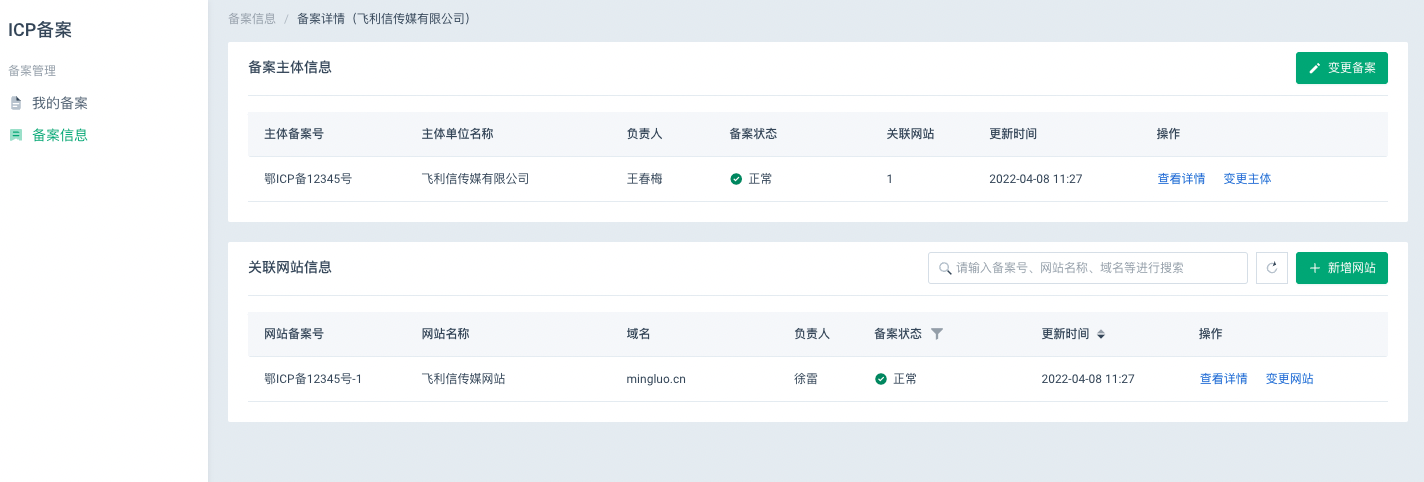
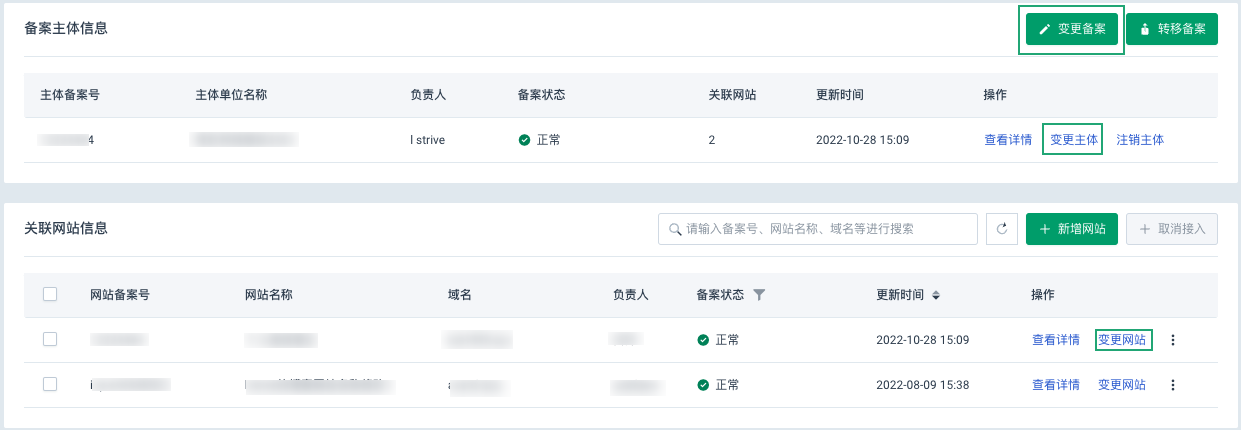
Record*: switch filing  (#1130)
* fix

* update

* update the links of index file

* fix error in ipsec- tunnel document

* update dns document

* update dns document

* modify the NOTES style and delete the DTAE field

* Modify the file name to avoid being incorrectly linked

* new version of ELK service：ELK 7.10.2-QingCloud 3.0.3

* update ELK product news

* modify product news

* bugfix of dns and ssl

* Update confirm_ssl.md

* Update confirm_ssl.md

* fix error

* Shielding the latest news

* update qke

* bad links

* fix bad links

* update index file

* fix error  link of images

* test

* update qke and vpc

* fix bug

* 解决HPC API 文档冲突导致的文件丢失

* add hpc api lost files (#892) (#893)

* fix

* update

* update the links of index file

* fix error in ipsec- tunnel document

* update dns document

* update dns document

* modify the NOTES style and delete the DTAE field

* Modify the file name to avoid being incorrectly linked

* new version of ELK service：ELK 7.10.2-QingCloud 3.0.3

* update ELK product news

* modify product news

* bugfix of dns and ssl

* Update confirm_ssl.md

* Update confirm_ssl.md

* fix error

* Shielding the latest news

* update qke

* bad links

* fix bad links

* update index file

* fix error  link of images

* test

* update qke and vpc

* fix bug

* 解决HPC API 文档冲突导致的文件丢失

* modify for jira OS-559,OS-547 (#894)

* Update main.yml

test workflows

* Update main.yml

* Update main.yml

* Update main.yml

* Update main.yml

* Update main.yml

* Update main.yml
[…]

diff --git a/content/site/record/manual/change_filing.md b/content/site/record/manual/change_filing.md
@@ -27,6 +27,8 @@ keyword: 变更备案, 备案
 请提前将变更涉及的材料彩色电子版备好，便于填写系统时同步上传审核。
 
 #### 操作步骤
+> **说明**
+>
 > 不同的 ICP 备案订单不能同时进行。如果 ICP 备案主体下有其他正在进行中的备案订单，备案页面的变更主体与变更网站按钮将变为灰色，不能进行备案变更操作。
 
 1. 登录 QingCloud 管理控制台。
@@ -53,6 +55,8 @@ keyword: 变更备案, 备案
     
     - **变更备案**/**变更网站**
 
+      > **说明**
+      >
       > 根据各省管局规则及规定，ICP备案信息中的部分信息无法变更。变更网站信息时，不能修改或新增**网站域名**和**网站首页URL**。
 
       * 网站名称：个人网站、企业网站名称的具体要求，请参见[网站名称命名规则](../../intro/limit/)。
@@ -62,7 +66,7 @@ keyword: 变更备案, 备案
       * 网站服务内容：网站内容必须与主办单位性质相符。
 
       * 应用服务类型：各服务类型参数说明如下表所示。
-
+      
         | 参数           | 说明                                                         |
         | -------------- | ------------------------------------------------------------ |
         | 网站应用服务   | 通常指官网类或电商网站选择网站应用服务等。                   |
@@ -71,12 +75,12 @@ keyword: 变更备案, 备案
         | 数据应用服务   | 通常指存储某种格式编程代码文件数据，一般用作调用接口使用等。 |
         | APP 应用服务   | 通常指手机、平台电脑上的APP等。                              |
         | 微信号应用服务 | 通常指微信订阅号、公众号、服务号等。                         |
-    
+      
        * 网站语言：指网站内容使用的主要语言。请根据实际情况进行选择，不建议多选。
          示例：网站内容的主要语言为中文，部分插件为英文，此时“网站语言”选择“中文”。
-    
-       * 前置审批类型：网站若包含[前置审批内容类型](../../prepare/pre_approval/)中的项目，请上传相关许可证件或咨询备案所在省主管部门。
 
+       * 前置审批类型：网站若包含[前置审批内容类型](../../prepare/pre_approval/)中的项目，请上传相关许可证件或咨询备案所在省主管部门。
+      
        * 网站负责人信息：
          如果网站负责人和主体负责人是同一个人，可在下拉列表中选择。否则，点击**新增网站负责人**，并填写网站负责人信息，此时网站负责人和主体负责人的电话、邮箱不能相同。
     
@@ -101,7 +105,8 @@ keyword: 变更备案, 备案
     备案通过后，用户需要按照工信部要求建设网站，并且在网站首页下方中央放置对应的网站备案号，备案号需要添加超链接至工信部官网：https://beian.miit.gov.cn/ ；江苏省用户需要注意网页下方还需添加版权所有，版权所有单位要与备案主办单位名称保持一致。
 
 
-> 提示：  
+> **说明**  
+>
 > 1. 工信部备案成功后，网站开通之日起30日内，用户需自行登录[全国互联网安全管理服务平台](http://www.beian.gov.cn/portal/index.do) 进行公安备案及网站安全评估。参考文档：《互联网站安全服务平台操作指南》、《安全评估使用手册》（可提供文档下载）。  
 > 2. 如果用户网站涉及经营性互联网信息服务，需自行申办经营性 ICP 许可证。  
 > 3. 备案成功后，请保持负责人联系电话畅通，以便接收备案相关的通知与提醒，若备案相关信息发生变化，请及时联系青云变更备案信息，避免因未及时收到通知信息而影响网站正常使用。变更备案可参考变更备案流程。

diff --git a/content/site/record/manual/switch_filing.md b/content/site/record/manual/switch_filing.md
@@ -1,37 +1,54 @@
 ---
-title: "转移备案（即将上线）"
+title: "转移备案"
 description: test
 weight: 17
-draft: true
+draft: false
 keyword: 转移备案, QingCloud, 青云, 备案
 ---
 
+如果您同时拥有多个青云账号，系统支持将账号A下已备案完成的主体、网站转移到账号B下，且转移备案对业务没有影响。
 
+![转移备案](../../_images/switch_filling_01.png)
 
-如果您同时拥有多个青云账号，系统支持将账号A下已备案完成的主体、网站转移到账号B下。
-
-转移备案对业务没有影响。
-
-示例：
-
-同一个主体的两个域名，A域名已经在A账号下备案，B域名可以通过“新增网站（原备案在青云）”操作，在A账号下继续备案。如果希望更换主体所在的备案到B账号，请先使用转移备案功能，将A域名的备案信息转移到B账号下，然后通过“新增网站（原备案在青云）”操作，备案B域名。
-
-#### 转移须知
+## 转移须知
 
 - 该功能仅支持青云账号间的备案转移。
 - 转移前、转移后的两个账号（即账号A和账号B），都没有正在备案的订单，否则无法转移备案。
-- 一个青云账号只能备案一个主体，因此转移后的账号（即账号B）不能有主体信息，否则无法用于转移。
+- 转移前、转移后的两个账号可以为主账号，也可以为子账号。
+- 完成备案信息迁移后，原账号将无法再管理该备案主体的信息。
 
-#### 操作步骤
+## 操作步骤
 
-1. 登录青云备案管理系统，在备案信息管理列表找到需要转移的备案记录。
+1. 登录 QingCloud 管理控制台。
 
-2. 在列表内点击【转移备案】，按照系统要求填写B账号信息，并通过手机验证完成转移备案操作。
+2. 点击右上角的**备案**，进入 **ICP 备案**管理系统。
 
-3. 转移备案只能转移整个主体的备案信息，不能转移单个网站的备案信息。
+3. 在左侧导航栏点击**备案信息**，进入备案信息列表。
 
+4. 点击主体备案号名称，进入备案主体信息详情列表。
 
+5. 点击页面右上角的**转移备案**。
 
-说明：
+   ![转移备案](../../_images/switch_filling_02.png)
 
-转移备案操作，不需要通过青云审核与管局审核。
+6. 在**账号信息确认**区域填写转移前后账户信息，并通过手机验证完成转移备案信息验证。
+
+   ![](../../_images/switch_filling_03.png)
+
+7. 点击**确认转移**。
+
+8. 在**转移备案确认**提示框中确认转移的目标账号信息无误后，点击**确认转移**。
+
+   - 提示“恭喜你，转移备案申请已成功提交。”，则转移备案操作完成。
+
+   - 点击**返回备案信息**，可返回至备案信息首页。
+
+   >**说明**
+   >
+   >* 转移备案只能转移整个主体的备案信息，不能转移单个网站的备案信息。
+   >* 转移备案操作，不需要通过青云审核与管局审核。
+
+## 后续操作
+
+转移备案信息完成后，若原账户下备案关联的云资源欠费或销毁，则需要在迁入账户发起[备案变更](../change_filing/)，以更新相关备案云资源。
+
